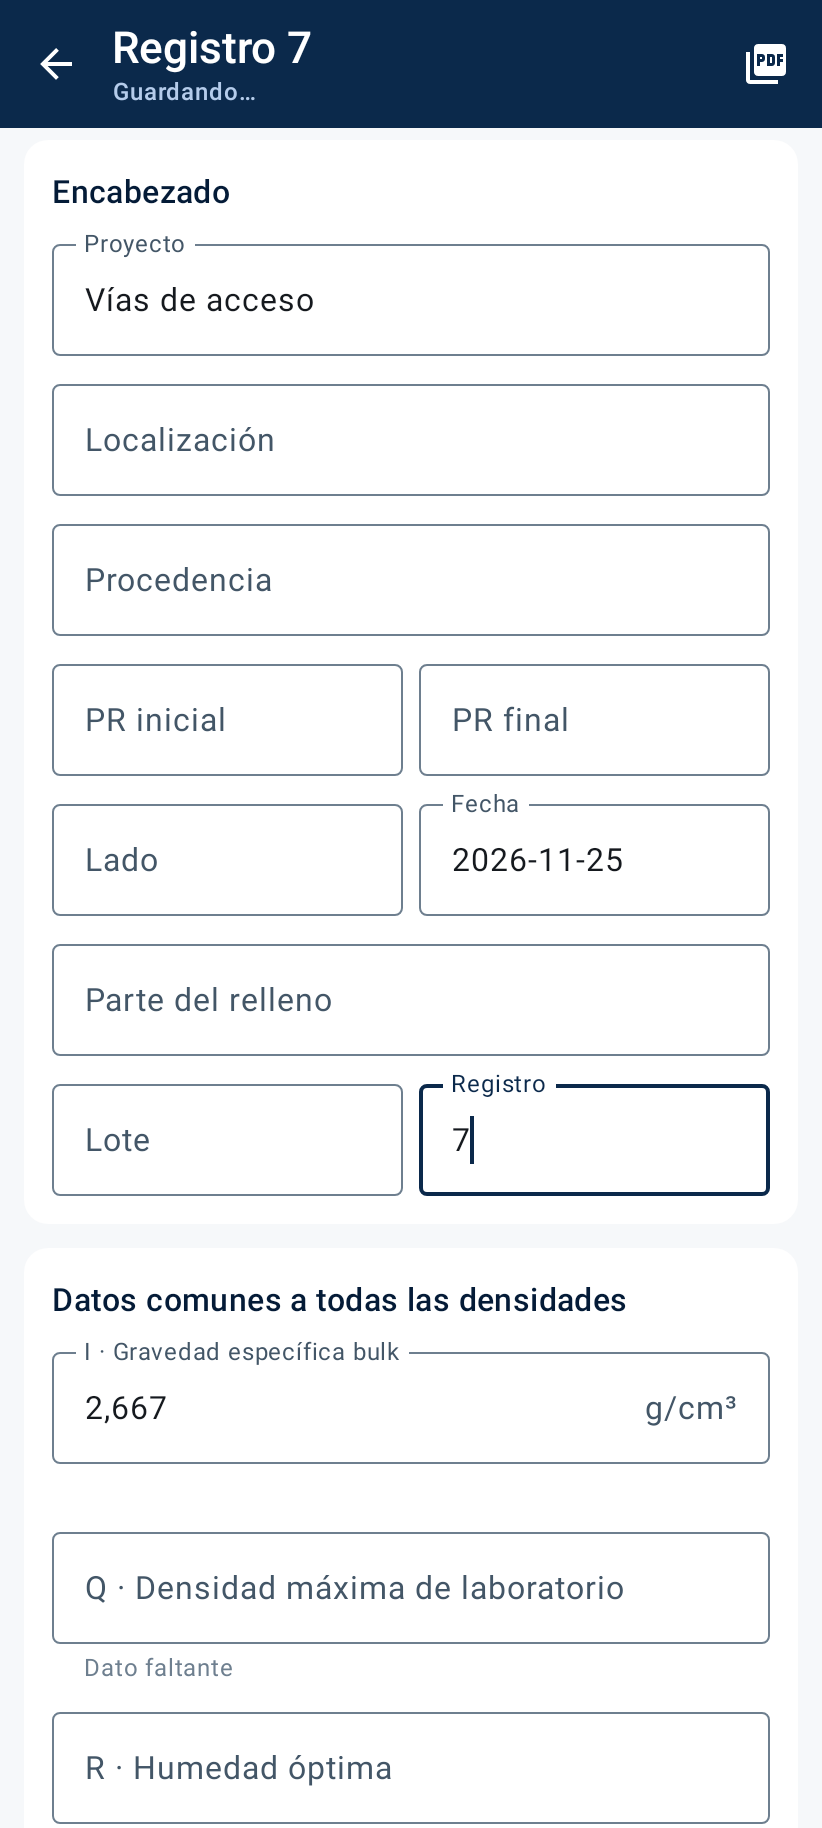
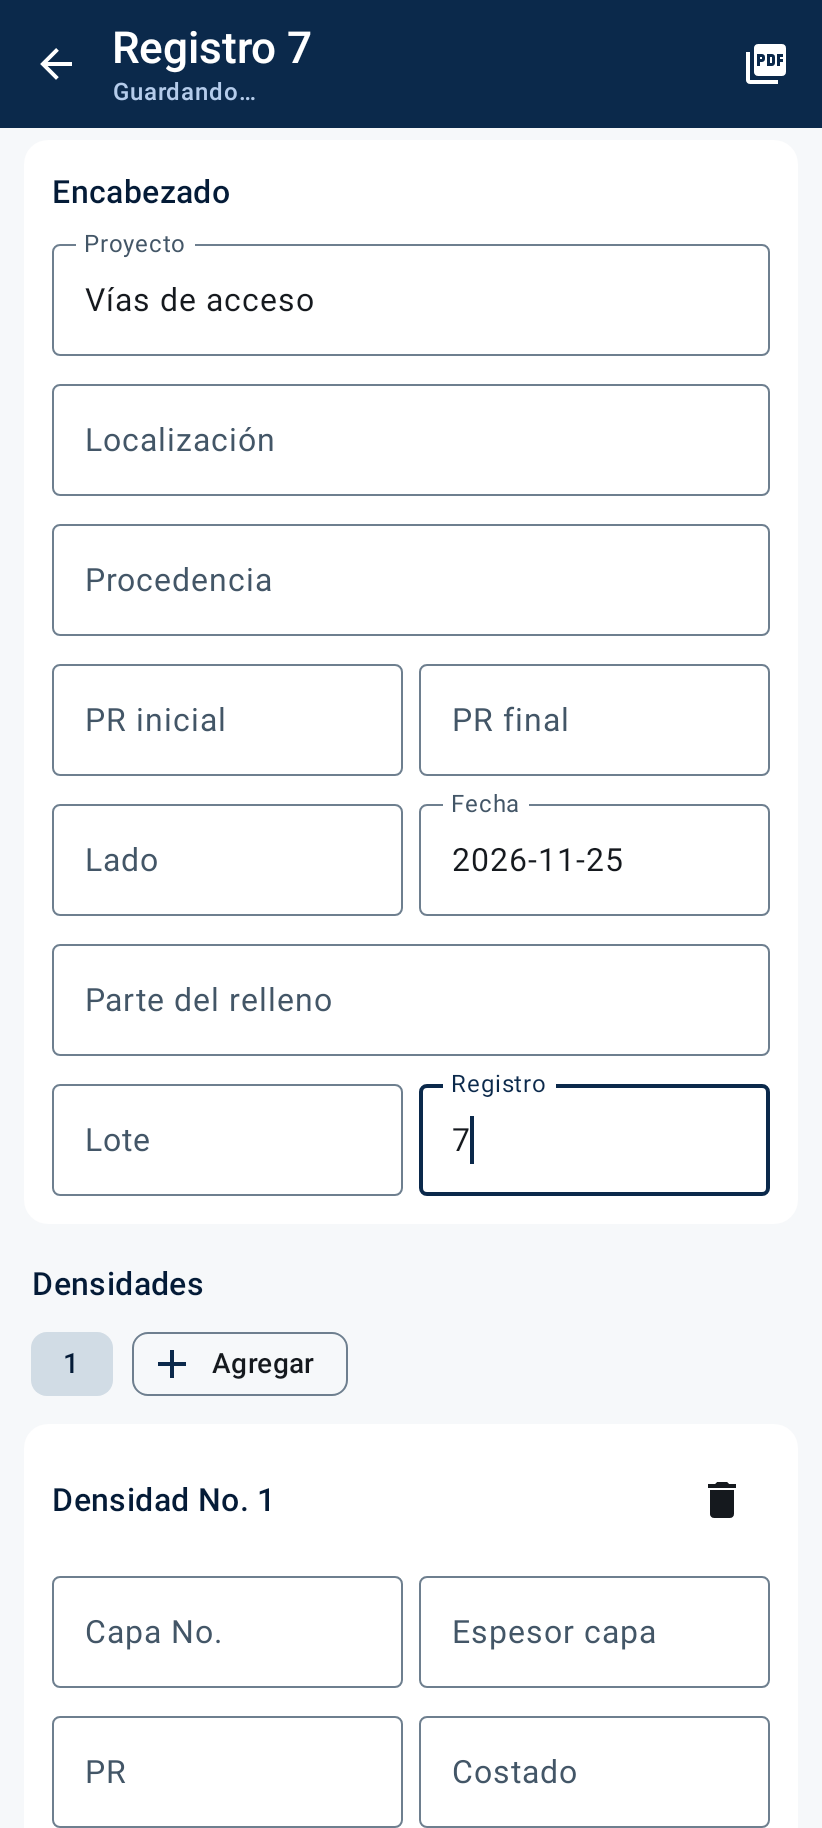
I, Q y R en su fila del Excel dentro de cada densidad; motivo cuando no hay compactación; versión automática y firma fija vía Secrets
Claude-Session: https://claude.ai/code/session_011HT8okW64Hb7pZx4c1uUfV

diff --git a/app/src/main/kotlin/com/geodensidad/app/ui/RegistroScreen.kt b/app/src/main/kotlin/com/geodensidad/app/ui/RegistroScreen.kt
@@ -193,13 +193,6 @@ fun RegistroScreen(volver: () -> Unit) {
                 }
             }
             item {
-                Bloque("Datos comunes a todas las densidades") {
-                    Numero("I", "Gravedad específica bulk", "g/cm³", textos["i"] ?: "") { vm.numeroComun("i", it) }
-                    Numero("Q", "Densidad máxima de laboratorio", "kg/m³", textos["q"] ?: "") { vm.numeroComun("q", it) }
-                    Numero("R", "Humedad óptima", "%", textos["r"] ?: "") { vm.numeroComun("r", it) }
-                }
-            }
-            item {
                 Text("Densidades", style = MaterialTheme.typography.titleMedium, color = Condor.NavyDeep, modifier = Modifier.padding(16.dp, 12.dp, 16.dp, 4.dp))
                 LazyRow(contentPadding = PaddingValues(horizontal = 12.dp), horizontalArrangement = Arrangement.spacedBy(6.dp)) {
                     itemsIndexed(dens) { i, _ -> FilterChip(i == n, { vm.seleccion.value = i }, { Text("${i + 1}") }) }
@@ -238,8 +231,15 @@ private fun Par(a: @Composable () -> Unit, b: @Composable () -> Unit) =
     Row(horizontalArrangement = Arrangement.spacedBy(8.dp)) { Box(Modifier.weight(1f)) { a() }; Box(Modifier.weight(1f)) { b() } }
 
 @Composable
-private fun Numero(sym: String, nombre: String, unidad: String, texto: String, error: String? = null, onChange: (String) -> Unit) =
-    NumberInput(nombre, texto, unidad, onChange, symbol = sym, error = error)
+private fun Numero(sym: String, nombre: String, unidad: String, texto: String, error: String? = null, ayuda: String? = null, onChange: (String) -> Unit) =
+    NumberInput(nombre, texto, unidad, onChange, symbol = sym, error = error, hint = ayuda)
+
+/** Explica en palabras simples por qué no se puede calcular S = P / Q × 100. */
+private fun motivoS(r: LegacyResult): String {
+    val falta = r.steps.firstOrNull { it.symbol == "S" }?.unavailableReason ?: return ""
+    val errores = r.blocking.map { "${it.field}: ${it.message}" }
+    return "No se calcula la compactación. " + (if (errores.isNotEmpty()) errores.joinToString("; ") else falta.replace("Depende de resultado no disponible", "Falta calcular"))
+}
 
 /** Fila calculada (fórmula del Excel): solo lectura, sombreada. */
 @Composable
@@ -275,6 +275,7 @@ private fun DensidadCard(vm: RegistroViewModel, reg: Registro, n: Int, textos: M
             Numero("F", "Densidad de la arena", "g/cm³", textos["$n.f"] ?: "", error(r, "F")) { vm.numeroDensidad(n, "f", it) }
             Calculada("G", "Volumen del hueco", v(r, "G", 2, "cm³"))
             Numero("H", "Material retenido en 3/4", "g", textos["$n.h"] ?: "", error(r, "H")) { vm.numeroDensidad(n, "h", it) }
+            Numero("I", "Gravedad específica bulk", "g/cm³", textos["i"] ?: "", error(r, "I"), "Mismo valor para todas las densidades") { vm.numeroComun("i", it) }
             Numero("J", "Peso material extraído húmedo", "g", textos["$n.j"] ?: "", error(r, "J")) { vm.numeroDensidad(n, "j", it) }
             Calculada("K", "% retenido 3/4", v(r, "K", 2, "%"))
             Numero("L", "Humedad", "%", textos["$n.l"] ?: "", error(r, "L")) { vm.numeroDensidad(n, "l", it) }
@@ -282,8 +283,10 @@ private fun DensidadCard(vm: RegistroViewModel, reg: Registro, n: Int, textos: M
             Calculada("N", "Humedad partículas finas", r.value("N")?.let { "${Fmt.num(it * 100, 2)} %" } ?: "—")
             Calculada("O", "Densidad seca muestra total", v(r, "O", 2, "kg/m³"))
             Calculada("P", "Densidad seca corregida (Di)", v(r, "P", 2, "kg/m³"), destacada = true)
-            Calculada("S", "Compactación", v(r, "S", 2, "%"), destacada = true)
-            r.blocking.filter { it.field in setOf("E", "P") }.forEach { Text(it.message, color = Condor.Bad, style = MaterialTheme.typography.bodySmall) }
+            Numero("Q", "Densidad máxima de laboratorio (De)", "kg/m³", textos["q"] ?: "", error(r, "Q"), "Mismo valor para todas las densidades") { vm.numeroComun("q", it) }
+            Numero("R", "Humedad óptima", "%", textos["r"] ?: "", error(r, "R"), "Mismo valor para todas las densidades") { vm.numeroComun("r", it) }
+            Calculada("S", "Compactación del terreno", v(r, "S", 2, "%"), destacada = true)
+            if (r.value("S") == null) Text(motivoS(r), color = Condor.Bad, style = MaterialTheme.typography.bodySmall)
         }
     }
 }

diff --git a/app/src/test/kotlin/com/geodensidad/app/RegistroTest.kt b/app/src/test/kotlin/com/geodensidad/app/RegistroTest.kt
@@ -30,6 +30,22 @@ class RegistroTest {
         assertEquals(89.907877, Descriptive.of(res.map { it.value("S")!! }).mean!!, 5.1e-7)
     }
 
+    /** Valores del Excel 'Densidades_toyo (1).xlsx': L1 = 0,061 y Q = 2395 (resultados guardados por Excel). */
+    @Test fun excelActualizado() {
+        val base = registroDelExcel().copy(q = "2395")
+        val r = base.conDensidades(base.densidades.mapIndexed { k, d -> if (k == 0) d.copy(l = "0.061") else d })
+        val res = r.densidades.map { r.calcular(it) }
+        val pExcel = listOf(2292.577232302752, 2311.554430718544, 2320.713486681072, 2326.3029525344086, 2350.6987089569375, 2168.9736504396687, 2193.2035844365437, 2159.2540518210126, 2127.3899025226783, 2178.9521927512183)
+        val sExcel = listOf(95.7234752527245, 96.51584261872836, 96.89826666726815, 97.13164728744921, 98.15025924663622, 90.56257413109265, 91.57426239818554, 90.15674537874791, 88.82630073163583, 90.97921472865212)
+        res.forEachIndexed { k, x -> assertEquals(pExcel[k], x.value("P")!!, 1e-9); assertEquals(sExcel[k], x.value("S")!!, 1e-9) }
+    }
+
+    @Test fun sinQNoHayCompactacion() {
+        val r = registroDelExcel().copy(q = null)
+        val x = r.calcular(r.densidades[0])
+        assertNotNull(x.value("P")); assertNull(x.value("S"))
+    }
+
     @Test fun datoFaltanteNoEsCero() {
         val r = registroDelExcel().let { it.conDensidades(listOf(it.densidades[0].copy(j = null))) }
         val x = r.calcular(r.densidades[0])

diff --git a/app/src/test/kotlin/com/geodensidad/app/UiFlowTest.kt b/app/src/test/kotlin/com/geodensidad/app/UiFlowTest.kt
@@ -48,11 +48,13 @@ class UiFlowTest {
         esperar("Encabezado")
         escribir("Proyecto", "Vías de acceso"); escribir("Registro", "7")
         shot("02_encabezado")
-        escribir("Q · Densidad máxima", "2495"); escribir("R · Humedad óptima", "6,68")
         escribir("A · Peso frasco y arena inicial", "7139"); escribir("B · Peso frasco y arena restante", "3317")
         escribir("D · Constante del cono", "1735"); escribir("F · Densidad de la arena", "1,396")
-        escribir("H · Material retenido", "410"); escribir("J · Peso material extraído", "3694"); escribir("L · Humedad", "6")
-        lista().performScrollToNode(hasText("S · Compactación"))
+        escribir("H · Material retenido", "410"); escribir("I · Gravedad específica bulk", "2,667")
+        escribir("J · Peso material extraído", "3694"); escribir("L · Humedad", "6")
+        lista().performScrollToNode(hasText("No se calcula la compactación", substring = true)) // sin Q todavía no hay S
+        escribir("Q · Densidad máxima", "2495"); escribir("R · Humedad óptima", "6,68")
+        lista().performScrollToNode(hasText("Compactación del terreno", substring = true))
         esperar("91,98 %")
         rule.onNodeWithText("2.294,97 kg/m³").assertExists()
         shot("03_densidad_resultados")

diff --git a/docs/INSTALACION_Y_ACTUALIZACION.md b/docs/INSTALACION_Y_ACTUALIZACION.md
@@ -1,34 +1,49 @@
-# Instalación, firma y actualización
+# Instalación y actualizaciones sin desinstalar
 
-## Instalación de prueba (debug)
+Android instala una versión **encima** de otra (conservando los registros) solo si:
+1. el APK nuevo está firmado con **la misma clave**, y
+2. tiene un **número de versión mayor**.
 
-1. Compilar `./gradlew :app:assembleDebug` (o descargar el artefacto de la integración continua).
-2. Copiar `app-debug.apk` al teléfono (Android 8.0 o superior) y abrirlo; permitir "instalar apps desconocidas" para el gestor de archivos.
-3. El paquete debug (`com.geodensidad.app.debug`) convive con el de producción y **no comparte datos** con él.
+El número de versión ya sube solo: GitHub usa el número de ejecución (`versionCode = 100 + ejecución`, `versionName = 1.2.<ejecución>`).
+La clave fija se configura **una sola vez** en los Secrets del repositorio:
 
-> Los APK debug se firman con la clave de depuración de cada máquina: un APK debug compilado en otra máquina no podrá instalarse como actualización encima. Use el canal de producción para equipos de campo.
+## 1. Crear la clave (una vez, en su computador)
 
-## Producción (release)
+Necesita `keytool` (viene con Android Studio o cualquier JDK). Elija una contraseña y guárdela.
 
-1. Crear la clave **una sola vez** y custodiarla (gestor de secretos y copia fuera de línea; perderla impide publicar actualizaciones):
-   ```bash
-   keytool -genkeypair -v -keystore geodensidad-release.jks -alias geodensidad -keyalg RSA -keysize 4096 -validity 10000
-   ```
-2. Crear `keystore.properties` en la raíz (está en `.gitignore`, **nunca** se versiona):
-   ```
-   storeFile=../ruta/geodensidad-release.jks
-   storePassword=...
-   keyAlias=geodensidad
-   keyPassword=...
-   ```
-3. `./gradlew :app:assembleRelease` → `app/build/outputs/apk/release/app-release.apk`. Sin `keystore.properties` se genera `app-release-unsigned.apk`, que no es instalable.
+```bash
+keytool -genkeypair -v -keystore geodensidad.jks -storetype PKCS12 -alias geodensidad -keyalg RSA -keysize 4096 -validity 10000
+```
 
-Canal inicial de distribución propuesto: distribución interna del APK firmado (MDM o enlace controlado). No hay autoactualización.
+Convertirla a texto base64 — Windows (PowerShell):
 
-## Actualizar sin perder datos
+```powershell
+[Convert]::ToBase64String([IO.File]::ReadAllBytes("geodensidad.jks")) | Set-Clipboard
+```
 
-- Mismo `applicationId` (`com.geodensidad.app`), misma clave de firma y `versionCode` mayor.
-- Instalar el nuevo APK **encima** (sin desinstalar). - Recomendado: crear un respaldo completo antes de actualizar.
-- **Pendiente de verificar en dispositivo**: la actualización sobre una instalación existente no se ha probado físicamente (ver LIMITACIONES).
+Linux/Mac:
 
-Desinstalar o "borrar datos" elimina toda la información local; solo se recupera con un respaldo.
+```bash
+base64 -w0 geodensidad.jks
+```
+
+**Guarde `geodensidad.jks` y la contraseña en un lugar seguro.** Si se pierden, las versiones nuevas no podrán instalarse encima.
+
+## 2. Cargarla en GitHub (una vez)
+
+Repositorio → *Settings* → *Secrets and variables* → *Actions* → *New repository secret*. Cree cuatro:
+
+| Nombre | Valor |
+|---|---|
+| `SIGNING_KEYSTORE_BASE64` | el texto base64 del paso anterior |
+| `SIGNING_STORE_PASSWORD` | la contraseña |
+| `SIGNING_KEY_ALIAS` | `geodensidad` |
+| `SIGNING_KEY_PASSWORD` | la contraseña |
+
+## 3. Instalar
+
+- Abra la última ejecución en *Actions*, descargue el artefacto **GeoDensidad-apk-N** e instale `debug/app-debug.apk`.
+- La **primera vez** con la clave fija hay que desinstalar la versión anterior (fue firmada con otra clave). Desde ahí, cada APK nuevo se instala encima y conserva los registros.
+- Si la ejecución muestra el aviso *"Sin secret SIGNING_KEYSTORE_BASE64"*, los Secrets no están configurados.
+
+Compilación local: `./gradlew :app:assembleDebug` (sin las variables `SIGNING_*` se usa la firma de depuración de esa máquina).

diff --git a/README.md b/README.md
@@ -1,4 +1,4 @@
-# GeoDensidad 1.1.0
+# GeoDensidad 1.2
 
 App Android sencilla que reproduce la hoja **'Cono de arena'** del formato Excel *Densidad o masa unitaria del suelo en el terreno – Método del cono de arena (I.N.V. E – 161)*, con la colorimetría de **Construcciones El Cóndor S.A.**
 
@@ -13,7 +13,7 @@ App Android sencilla que reproduce la hoja **'Cono de arena'** del formato Excel
 | Proyecto, Localización, Procedencia, PR inicial, PR final, Lado, Fecha, Parte del relleno, Lote, Registro | Se digitan (encabezado) |
 | Capa No., Espesor capa, PR, Costado | Se digitan por densidad |
 | **A** Peso frasco y arena inicial · **B** Peso frasco y arena restante · **D** Constante del cono · **F** Densidad de la arena · **H** Material retenido en 3/4 · **J** Peso material extraído húmedo · **L** Humedad | Se digitan por densidad (D y F se copian de la densidad anterior, como en el Excel) |
-| **I** Gravedad específica bulk · **Q** Densidad máxima de laboratorio · **R** Humedad óptima | Se digitan una vez por registro (I trae 2,667) |
+| **I** Gravedad específica bulk · **Q** Densidad máxima de laboratorio · **R** Humedad óptima | Se digitan en su fila dentro de la densidad; el valor es común a todas (I trae 2,667) |
 | **C, E, G, K, M, N, O, P, S** | Se calculan con las fórmulas del Excel |
 | Dm, s, k(n), Dm − k·s ≥ 0,95·De | Se calculan en el resumen con todas las densidades del registro |
 | Observaciones, Elaboró, Aprobó | Se digitan |
@@ -26,7 +26,7 @@ Diferencias deliberadas con el Excel: la humedad L y R se digitan en porcentaje 
 ./gradlew :app:assembleDebug
 ```
 
-APK en `app/build/outputs/apk/debug/app-debug.apk`. GitHub Actions lo genera en cada push (artefacto **GeoDensidad-apk**). Pruebas: `./gradlew :core:test :app:testDebugUnitTest` (60 pruebas).
+APK en `app/build/outputs/apk/debug/app-debug.apk`. GitHub Actions lo genera en cada push (artefacto **GeoDensidad-apk-N**). Para que las actualizaciones se instalen encima, configure la firma fija: [docs/INSTALACION_Y_ACTUALIZACION.md](docs/INSTALACION_Y_ACTUALIZACION.md). Pruebas: `./gradlew :core:test :app:testDebugUnitTest` (62 pruebas).
 
 ## Estructura
 

diff --git a/docs/MANUAL_DE_CAMPO.md b/docs/MANUAL_DE_CAMPO.md
@@ -2,9 +2,8 @@
 
 1. **Nuevo registro** (botón inferior). Un registro es una hoja del formato.
 2. **Encabezado**: Proyecto, Localización, Procedencia, PR inicial, PR final, Lado, Fecha, Parte del relleno, Lote, Registro.
-3. **Datos comunes**: I (gravedad específica bulk, ya trae 2,667), Q (densidad máxima de laboratorio) y R (humedad óptima en %).
 4. **Densidades**: los botones 1, 2, 3… eligen la densidad; *Agregar* crea la siguiente (máximo 10; copia D y F de la anterior).
-   Digite Capa, Espesor, PR, Costado y los valores A, B, D, F, H, J, L. Las filas grises (C, E, G, K, M, N, O) y las azules (P y S) se calculan solas.
+   Digite Capa, Espesor, PR, Costado y A, B, D, F, H, I, J, L, Q, R en el mismo orden del Excel. I, Q y R valen igual para todas las densidades (al cambiarlos en una, cambian en todas). Las filas grises (C, E, G, K, M, N, O) y las azules (P y S) se calculan solas. Si S no aparece, la app indica qué falta (normalmente Q).
    - Coma decimal. Humedad en porcentaje: digite `6` para 6 %.
    - Un campo vacío es un dato faltante, no un cero.
 5. **Resumen del registro**: tabla de todas las densidades, compactación promedio y criterio Dm − k·s ≥ 0,95·De. Toque una fila para ir a esa densidad.

diff --git a/CHANGELOG.md b/CHANGELOG.md
@@ -1,5 +1,11 @@
 # Changelog
 
+## 1.2.x — 2026-11-25
+- I, Q y R se digitan dentro de cada densidad, en su fila del Excel (H → I → J … P → Q → R → S); valen igual para todas las densidades.
+- Cuando S no se puede calcular, la app dice por qué (p. ej. falta Q).
+- Versión automática por compilación y firma fija desde los Secrets de GitHub: las actualizaciones se instalan encima sin desinstalar.
+- Verificado contra 'Densidades_toyo (1).xlsx' (L₁ = 0,061; Q = 2395): P y S idénticos a los valores guardados por Excel.
+
 ## 1.1.0 (versionCode 2) — 2026-11-25 — App simplificada
 - La app reproduce directamente la hoja 'Cono de arena': un registro = una hoja (encabezado, hasta 10 densidades, resumen, observaciones y firmas).
 - Solo se digitan las celdas de datos del Excel; C, E, G, K, M, N, O, P y S se calculan.
